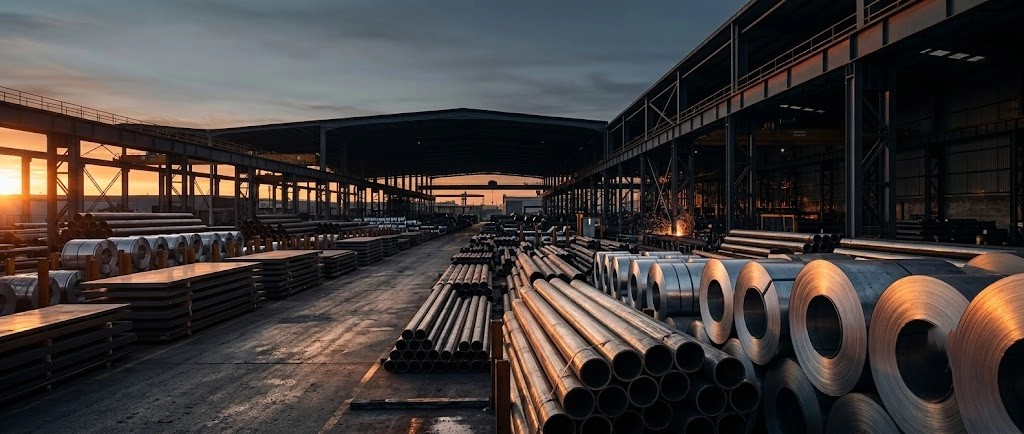
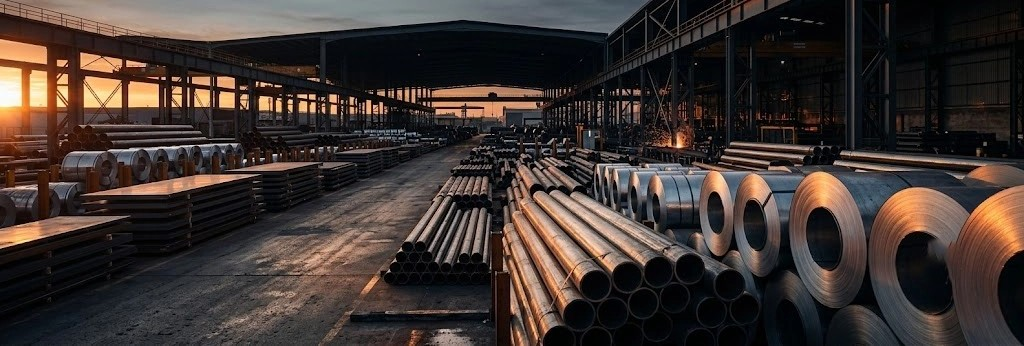
Complete gallery image refresh with remaining 11 photos
Replaces the last old/original photos in the gallery (elbow, brass,
round bar, tee, MS beam, aluminium pipe, SS sheet, structural steel,
square pipe, plus 3 stockyard scene shots) with new consistent-style
photography. Also used in fittings-flanges.html where the tee fitting
image was shared. All 24 gallery tiles now use the refreshed image set.

diff --git a/gallery.html b/gallery.html
@@ -102,7 +102,7 @@
         <span class="eyebrow">Our Yard</span>
         <h2>Gallery</h2>
         <p>A look inside our stockyard, material range, fittings and dispatch operations in Bhanpuri, Raipur.</p>
-      </div><div class="gallery-grid"><a href="images/Seamless Pipenew.jpg" class="tall reveal" target="_blank" rel="noopener"><img loading="lazy" src="images/Seamless Pipenew.jpg" alt="Seamless pipe stock"></a><a href="images/SS Coilsnew.jpg" class="reveal" target="_blank" rel="noopener"><img loading="lazy" src="images/SS Coilsnew.jpg" alt="Stainless steel coils"></a><a href="images/Butt Weld Fittingsnew.jpg" class="reveal" target="_blank" rel="noopener"><img loading="lazy" src="images/Butt Weld Fittingsnew.jpg" alt="Butt weld fittings"></a><a href="images/Flanges mainnew.jpg" class="reveal" target="_blank" rel="noopener"><img loading="lazy" src="images/Flanges mainnew.jpg" alt="Flange stock"></a><a href="images/Industrial Valves1new.jpg" class="reveal" target="_blank" rel="noopener"><img loading="lazy" src="images/Industrial Valves1new.jpg" alt="Industrial valves"></a><a href="images/Copper Materials1new.jpg" class="reveal" target="_blank" rel="noopener"><img loading="lazy" src="images/Copper Materials1new.jpg" alt="Copper materials"></a><a href="images/shope1new.jpg" class="reveal" target="_blank" rel="noopener"><img loading="lazy" src="images/shope1new.jpg" alt="Our stockyard"></a><a href="images/SS PIPEnew.jpg" class="reveal" target="_blank" rel="noopener"><img loading="lazy" src="images/SS PIPEnew.jpg" alt="SS pipes"></a><a href="images/Platesnew.jpg" class="reveal" target="_blank" rel="noopener"><img loading="lazy" src="images/Platesnew.jpg" alt="Steel plates"></a><a href="images/Elbows11.jfif" class="reveal" target="_blank" rel="noopener"><img loading="lazy" src="images/Elbows11.jfif" alt="Pipe elbows"></a><a href="images/Brass Materials1.jpg" class="reveal" target="_blank" rel="noopener"><img loading="lazy" src="images/Brass Materials1.jpg" alt="Brass materials"></a><a href="images/SS Round Bar1.webp" class="reveal" target="_blank" rel="noopener"><img loading="lazy" src="images/SS Round Bar1.webp" alt="SS round bars"></a><a href="images/shope2.jpg" class="reveal" target="_blank" rel="noopener"><img loading="lazy" src="images/shope2.jpg" alt="Warehouse view"></a><a href="images/Tees.jfif" class="reveal" target="_blank" rel="noopener"><img loading="lazy" src="images/Tees.jfif" alt="Pipe tees"></a><a href="images/MS Beam.jfif" class="reveal" target="_blank" rel="noopener"><img loading="lazy" src="images/MS Beam.jfif" alt="MS beams"></a><a href="images/Dairy Fittingsnew.jpg" class="reveal" target="_blank" rel="noopener"><img loading="lazy" src="images/Dairy Fittingsnew.jpg" alt="Dairy fittings"></a><a href="images/Aluminium Pipe.jfif" class="reveal" target="_blank" rel="noopener"><img loading="lazy" src="images/Aluminium Pipe.jfif" alt="Aluminium pipes"></a><a href="images/SS Sheet3.webp" class="reveal" target="_blank" rel="noopener"><img loading="lazy" src="images/SS Sheet3.webp" alt="SS sheets"></a><a href="images/shope3.jpg" class="reveal" target="_blank" rel="noopener"><img loading="lazy" src="images/shope3.jpg" alt="Material handling"></a><a href="images/Reducers1new.jpg" class="reveal" target="_blank" rel="noopener"><img loading="lazy" src="images/Reducers1new.jpg" alt="Pipe reducers"></a><a href="images/Structural Material1.jfif" class="reveal" target="_blank" rel="noopener"><img loading="lazy" src="images/Structural Material1.jfif" alt="Structural steel"></a><a href="images/shope4.jpg" class="reveal" target="_blank" rel="noopener"><img loading="lazy" src="images/shope4.jpg" alt="Dispatch area"></a><a href="images/SS Square Pipe1.webp" class="reveal" target="_blank" rel="noopener"><img loading="lazy" src="images/SS Square Pipe1.webp" alt="SS square pipes"></a><a href="images/SS Hexagon Bar.jpg" class="reveal" target="_blank" rel="noopener"><img loading="lazy" src="images/SS Hexagon Bar.jpg" alt="SS hexagon bar stock"></a></div>
+      </div><div class="gallery-grid"><a href="images/Seamless Pipenew.jpg" class="tall reveal" target="_blank" rel="noopener"><img loading="lazy" src="images/Seamless Pipenew.jpg" alt="Seamless pipe stock"></a><a href="images/SS Coilsnew.jpg" class="reveal" target="_blank" rel="noopener"><img loading="lazy" src="images/SS Coilsnew.jpg" alt="Stainless steel coils"></a><a href="images/Butt Weld Fittingsnew.jpg" class="reveal" target="_blank" rel="noopener"><img loading="lazy" src="images/Butt Weld Fittingsnew.jpg" alt="Butt weld fittings"></a><a href="images/Flanges mainnew.jpg" class="reveal" target="_blank" rel="noopener"><img loading="lazy" src="images/Flanges mainnew.jpg" alt="Flange stock"></a><a href="images/Industrial Valves1new.jpg" class="reveal" target="_blank" rel="noopener"><img loading="lazy" src="images/Industrial Valves1new.jpg" alt="Industrial valves"></a><a href="images/Copper Materials1new.jpg" class="reveal" target="_blank" rel="noopener"><img loading="lazy" src="images/Copper Materials1new.jpg" alt="Copper materials"></a><a href="images/shope1new.jpg" class="reveal" target="_blank" rel="noopener"><img loading="lazy" src="images/shope1new.jpg" alt="Our stockyard"></a><a href="images/SS PIPEnew.jpg" class="reveal" target="_blank" rel="noopener"><img loading="lazy" src="images/SS PIPEnew.jpg" alt="SS pipes"></a><a href="images/Platesnew.jpg" class="reveal" target="_blank" rel="noopener"><img loading="lazy" src="images/Platesnew.jpg" alt="Steel plates"></a><a href="images/Elbows11new.jpg" class="reveal" target="_blank" rel="noopener"><img loading="lazy" src="images/Elbows11new.jpg" alt="Pipe elbows"></a><a href="images/Brass Materials1new.jpg" class="reveal" target="_blank" rel="noopener"><img loading="lazy" src="images/Brass Materials1new.jpg" alt="Brass materials"></a><a href="images/SS Round Bar1new.jpg" class="reveal" target="_blank" rel="noopener"><img loading="lazy" src="images/SS Round Bar1new.jpg" alt="SS round bars"></a><a href="images/shope2new.jpg" class="reveal" target="_blank" rel="noopener"><img loading="lazy" src="images/shope2new.jpg" alt="Warehouse view"></a><a href="images/Teesnew.jpg" class="reveal" target="_blank" rel="noopener"><img loading="lazy" src="images/Teesnew.jpg" alt="Pipe tees"></a><a href="images/MS Beamnew.jpg" class="reveal" target="_blank" rel="noopener"><img loading="lazy" src="images/MS Beamnew.jpg" alt="MS beams"></a><a href="images/Dairy Fittingsnew.jpg" class="reveal" target="_blank" rel="noopener"><img loading="lazy" src="images/Dairy Fittingsnew.jpg" alt="Dairy fittings"></a><a href="images/Aluminium Pipenew.jpg" class="reveal" target="_blank" rel="noopener"><img loading="lazy" src="images/Aluminium Pipenew.jpg" alt="Aluminium pipes"></a><a href="images/SS Sheet3new.jpg" class="reveal" target="_blank" rel="noopener"><img loading="lazy" src="images/SS Sheet3new.jpg" alt="SS sheets"></a><a href="images/shope3new.jpg" class="reveal" target="_blank" rel="noopener"><img loading="lazy" src="images/shope3new.jpg" alt="Material handling"></a><a href="images/Reducers1new.jpg" class="reveal" target="_blank" rel="noopener"><img loading="lazy" src="images/Reducers1new.jpg" alt="Pipe reducers"></a><a href="images/Structural Material1new.jpg" class="reveal" target="_blank" rel="noopener"><img loading="lazy" src="images/Structural Material1new.jpg" alt="Structural steel"></a><a href="images/shope4new.jpg" class="reveal" target="_blank" rel="noopener"><img loading="lazy" src="images/shope4new.jpg" alt="Dispatch area"></a><a href="images/SS Square Pipe1new.jpg" class="reveal" target="_blank" rel="noopener"><img loading="lazy" src="images/SS Square Pipe1new.jpg" alt="SS square pipes"></a><a href="images/SS Hexagon Bar.jpg" class="reveal" target="_blank" rel="noopener"><img loading="lazy" src="images/SS Hexagon Bar.jpg" alt="SS hexagon bar stock"></a></div>
     </div>
   </section>
   <section class="section section-fog">

diff --git a/fittings-flanges.html b/fittings-flanges.html
@@ -111,7 +111,7 @@
         <span class="eyebrow">Pipe Fittings</span>
         <h2>Butt Weld, Socket Weld &amp; Screwed Fittings</h2>
         <p>Confirming to A403 / A182F in stainless steel and A234 / A105 / G.I. (ISI) in carbon steel.</p>
-      </div><div class="grid grid-4"><div class="card reveal"><div class="card-img"><span class="card-tag">BW / SW</span><img loading="lazy" src="images/Elbows.jfif" alt="Elbows"></div><div class="card-body"><h3>Elbows</h3><p>45&deg; &amp; 90&deg; long and short radius, butt weld &amp; socket weld.</p></div></div><div class="card reveal"><div class="card-img"><span class="card-tag">Equal / Reducing</span><img loading="lazy" src="images/Tees.jfif" alt="Tees"></div><div class="card-body"><h3>Tees</h3><p>Equal and reducing tees in seamless and welded construction.</p></div></div><div class="card reveal"><div class="card-img"><span class="card-tag">Conc / Ecc</span><img loading="lazy" src="images/Reducers.jfif" alt="Reducers"></div><div class="card-body"><h3>Reducers</h3><p>Concentric and eccentric reducers in all standard sizes.</p></div></div><div class="card reveal"><div class="card-img"><span class="card-tag">Screwed / SW</span><img loading="lazy" src="images/Couplings.jfif" alt="Couplings"></div><div class="card-body"><h3>Couplings</h3><p>Full and half couplings, screwed and socket weld types.</p></div></div><div class="card reveal"><div class="card-img"><span class="card-tag">B16.9</span><img loading="lazy" src="images/Butt Weld Fittingsnew.jpg" alt="Butt Weld Fittings"></div><div class="card-body"><h3>Butt Weld Fittings</h3><p>Complete BW range to ASME B16.9 in SS and CS.</p></div></div><div class="card reveal"><div class="card-img"><span class="card-tag">NPT / BSP</span><img loading="lazy" src="images/Threaded Fittings.jpg" alt="Threaded Fittings"></div><div class="card-body"><h3>Threaded Fittings</h3><p>Screwed fittings, nipples, unions, plugs and bushes.</p></div></div><div class="card reveal"><div class="card-img"><span class="card-tag">3000# / 6000#</span><img loading="lazy" src="images/Investment Casting.jpg" alt="Forged Fittings"></div><div class="card-body"><h3>Forged Fittings</h3><p>Socket weld and screwed forged fittings to A182 / A105.</p></div></div><div class="card reveal"><div class="card-img"><span class="card-tag">BW</span><img loading="lazy" src="images/Carbon Steel (C.S.) Fittings.jfif" alt="Caps &amp; Stub Ends"></div><div class="card-body"><h3>Caps &amp; Stub Ends</h3><p>Pipe caps, stub ends and lap joint accessories.</p></div></div></div>
+      </div><div class="grid grid-4"><div class="card reveal"><div class="card-img"><span class="card-tag">BW / SW</span><img loading="lazy" src="images/Elbows.jfif" alt="Elbows"></div><div class="card-body"><h3>Elbows</h3><p>45&deg; &amp; 90&deg; long and short radius, butt weld &amp; socket weld.</p></div></div><div class="card reveal"><div class="card-img"><span class="card-tag">Equal / Reducing</span><img loading="lazy" src="images/Teesnew.jpg" alt="Tees"></div><div class="card-body"><h3>Tees</h3><p>Equal and reducing tees in seamless and welded construction.</p></div></div><div class="card reveal"><div class="card-img"><span class="card-tag">Conc / Ecc</span><img loading="lazy" src="images/Reducers.jfif" alt="Reducers"></div><div class="card-body"><h3>Reducers</h3><p>Concentric and eccentric reducers in all standard sizes.</p></div></div><div class="card reveal"><div class="card-img"><span class="card-tag">Screwed / SW</span><img loading="lazy" src="images/Couplings.jfif" alt="Couplings"></div><div class="card-body"><h3>Couplings</h3><p>Full and half couplings, screwed and socket weld types.</p></div></div><div class="card reveal"><div class="card-img"><span class="card-tag">B16.9</span><img loading="lazy" src="images/Butt Weld Fittingsnew.jpg" alt="Butt Weld Fittings"></div><div class="card-body"><h3>Butt Weld Fittings</h3><p>Complete BW range to ASME B16.9 in SS and CS.</p></div></div><div class="card reveal"><div class="card-img"><span class="card-tag">NPT / BSP</span><img loading="lazy" src="images/Threaded Fittings.jpg" alt="Threaded Fittings"></div><div class="card-body"><h3>Threaded Fittings</h3><p>Screwed fittings, nipples, unions, plugs and bushes.</p></div></div><div class="card reveal"><div class="card-img"><span class="card-tag">3000# / 6000#</span><img loading="lazy" src="images/Investment Casting.jpg" alt="Forged Fittings"></div><div class="card-body"><h3>Forged Fittings</h3><p>Socket weld and screwed forged fittings to A182 / A105.</p></div></div><div class="card reveal"><div class="card-img"><span class="card-tag">BW</span><img loading="lazy" src="images/Carbon Steel (C.S.) Fittings.jfif" alt="Caps &amp; Stub Ends"></div><div class="card-body"><h3>Caps &amp; Stub Ends</h3><p>Pipe caps, stub ends and lap joint accessories.</p></div></div></div>
     </div>
   </section>
   <section class="section">
